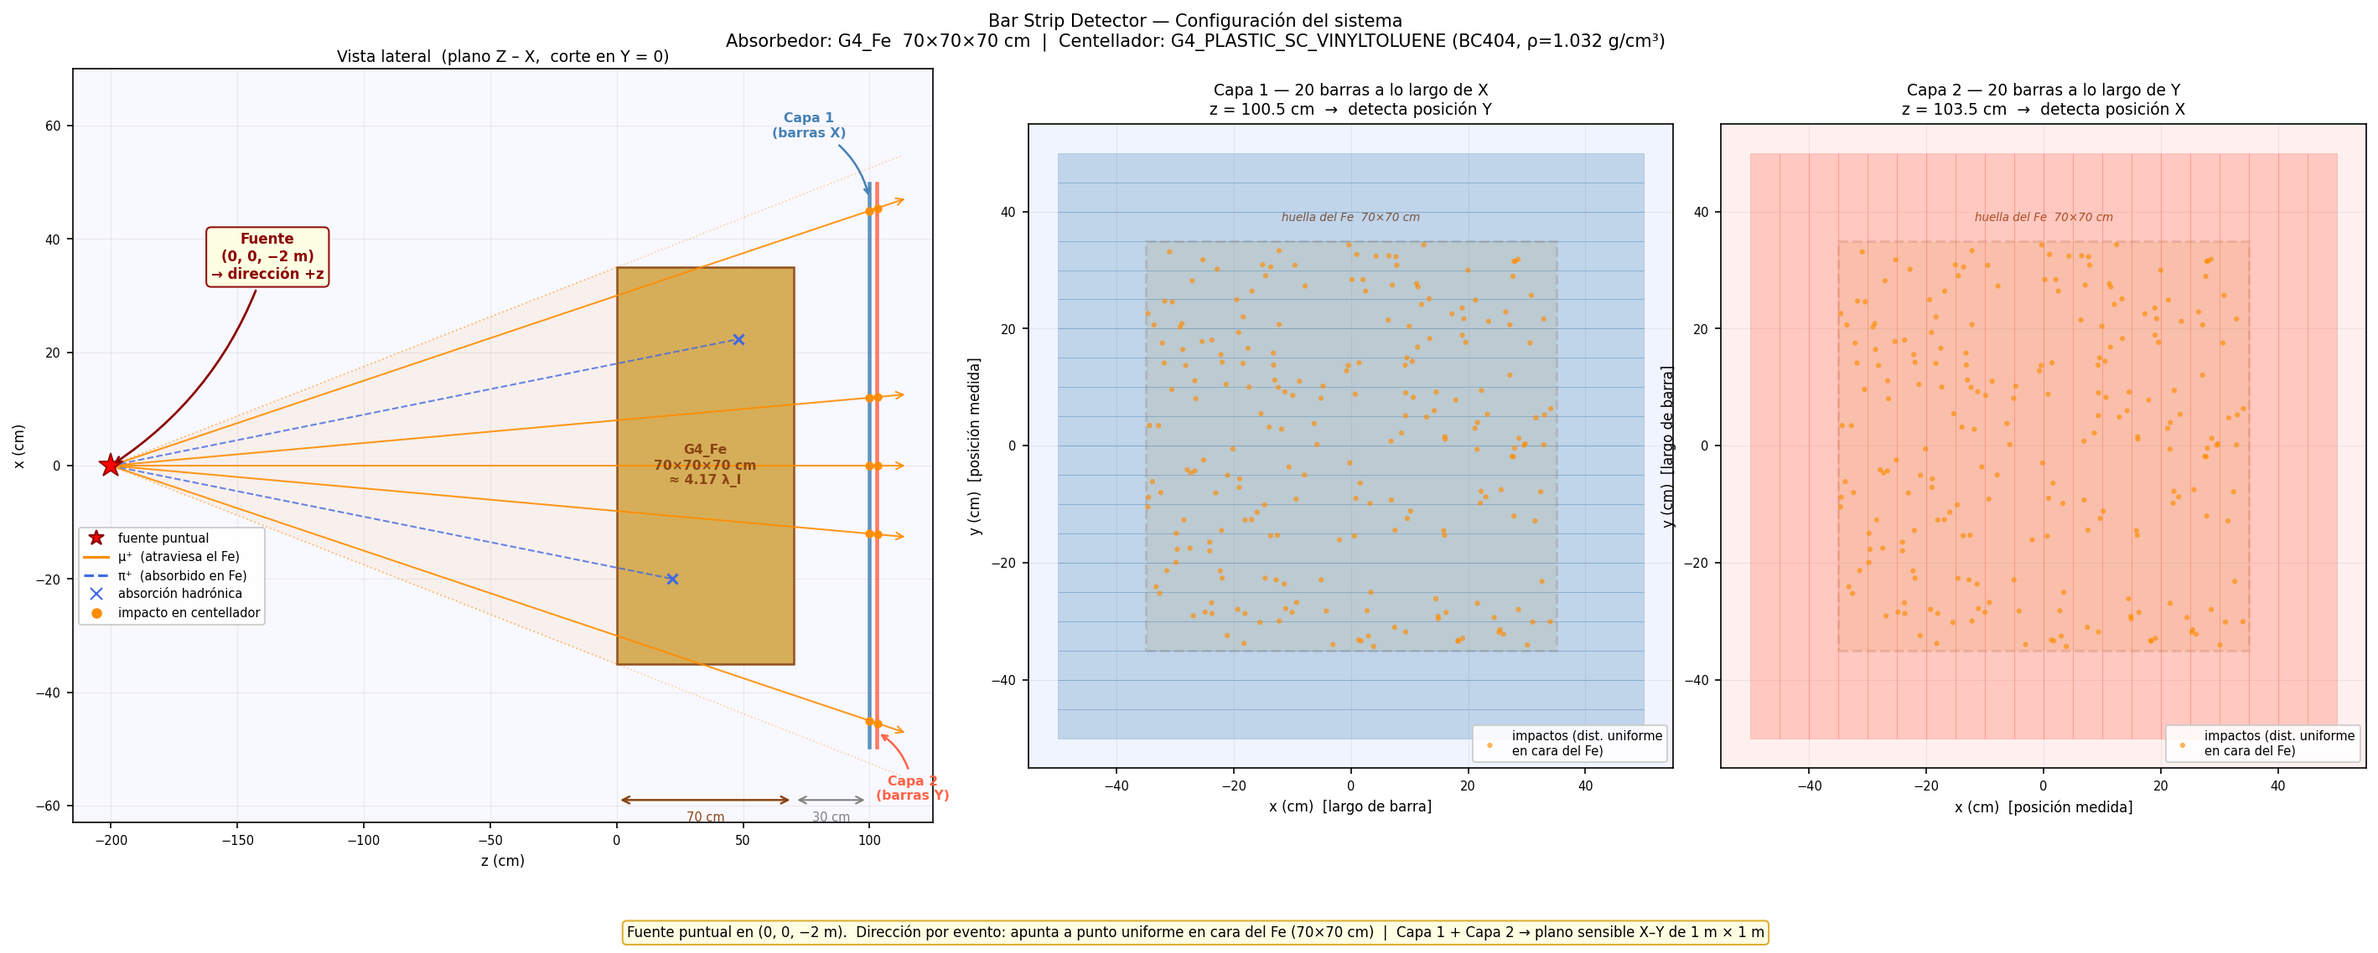
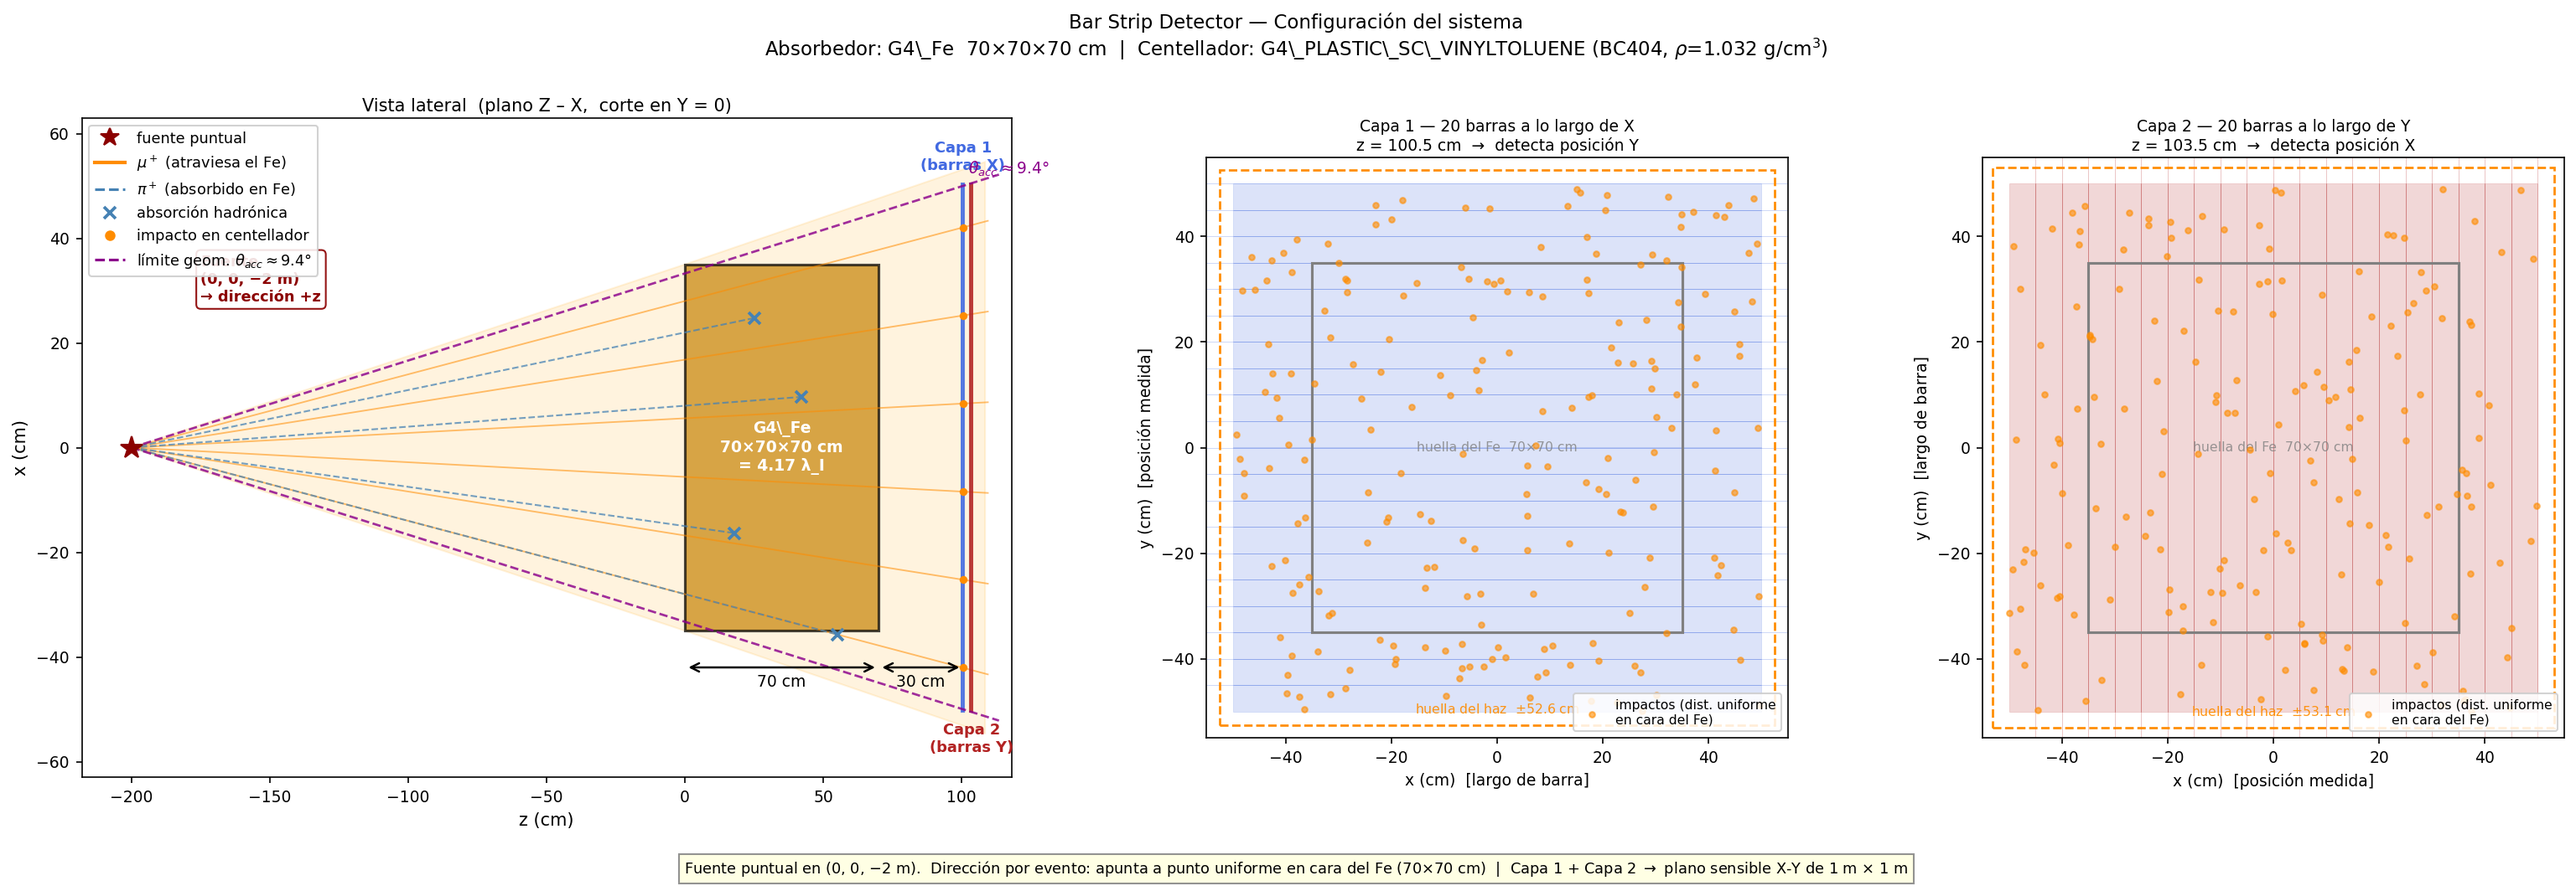
update

diff --git a/Bar Strip Detector/plot_bethe_bloch.py b/Bar Strip Detector/plot_bethe_bloch.py
@@ -393,6 +393,246 @@ def plot_landau(mu, pi, out_dir):
 
 
 # ============================================================================
+# PLOT 4b: Configuración del detector (diagrama esquemático)
+# ============================================================================
+def plot_detector_layout(out_dir, seed=42):
+    """
+    Three-panel schematic of the Bar Strip Detector.
+    Left : ZX side view — cone from source, Fe absorber, scintillator layers.
+    Centre: Capa 1 (20 bars along X, measuring Y).
+    Right : Capa 2 (20 bars along Y, measuring X).
+
+    Added elements:
+    - Dashed acceptance-limit lines (θ_acc ≈ 9.4°) in the side view.
+    - Projected beam footprint rectangle (±52.6 cm) in the layer panels.
+    """
+    from matplotlib.patches import Rectangle
+    from matplotlib.lines import Line2D
+
+    rng = np.random.default_rng(seed)
+
+    # ── Geometry (cm) ────────────────────────────────────────────────────────
+    z_src        = -200.0   # source z
+    z_fe0        =    0.0   # Fe front face
+    z_fe1        =   70.0   # Fe back face
+    x_fe         =   35.0   # Fe half-width
+    z_L1         =  100.5   # Capa 1 centre
+    z_L2         =  103.5   # Capa 2 centre
+    x_bar        =   50.0   # scintillator bar array half-coverage (±50 cm)
+    x_bar_c      =   47.5   # outermost bar centre
+    dist_L1      = z_L1 - z_src           # 300.5 cm
+    dist_L2      = z_L2 - z_src           # 303.5 cm
+    footprint_L1 = round(x_fe * dist_L1 / (-z_src), 1)  # 52.6 cm
+    footprint_L2 = round(x_fe * dist_L2 / (-z_src), 1)  # 53.1 cm
+    tx_acc       = x_bar * (-z_src) / dist_L1             # 33.28 cm
+    theta_acc    = np.degrees(np.arctan(tx_acc / (-z_src)))  # ~9.4°
+
+    # ── Figure layout ────────────────────────────────────────────────────────
+    fig = plt.figure(figsize=(21, 7))
+    fig.suptitle(
+        r"Bar Strip Detector — Configuración del sistema" + "\n"
+        r"Absorbedor: G4\_Fe  70$\times$70$\times$70 cm  |  "
+        r"Centellador: G4\_PLASTIC\_SC\_VINYLTOLUENE (BC404, $\rho$=1.032 g/cm$^3$)",
+        fontsize=11, y=0.99, va="top")
+
+    gs = fig.add_gridspec(1, 3, width_ratios=[3.2, 2, 2],
+                          wspace=0.28, left=0.04, right=0.98,
+                          top=0.87, bottom=0.12)
+    ax_s = fig.add_subplot(gs[0])
+    ax_1 = fig.add_subplot(gs[1])
+    ax_2 = fig.add_subplot(gs[2])
+
+    # ── Side view (ZX plane) ─────────────────────────────────────────────────
+    ax = ax_s
+    ax.set_title("Vista lateral  (plano Z – X,  corte en Y = 0)", fontsize=10, pad=4)
+    ax.set_xlabel("z (cm)", fontsize=10)
+    ax.set_ylabel("x (cm)", fontsize=10)
+
+    # Orange filled cone (full Fe beam cone)
+    x_at_L1 = x_fe * dist_L1 / (-z_src)
+    ax.fill(
+        [z_src, z_fe0, z_L1 + 8, z_L1 + 8, z_fe0, z_src],
+        [0,      x_fe,  x_at_L1 + 2, -(x_at_L1 + 2), -x_fe, 0],
+        color="orange", alpha=0.13, zorder=0)
+
+    # Fe block
+    ax.add_patch(Rectangle((z_fe0, -x_fe), z_fe1 - z_fe0, 2 * x_fe,
+                            facecolor="#C8860A", edgecolor="black",
+                            lw=1.5, alpha=0.72, zorder=1))
+    ax.text((z_fe0 + z_fe1) / 2, 0,
+            r"G4\_Fe" + "\n70×70×70 cm\n= 4.17 λ_I",
+            ha="center", va="center", fontsize=9,
+            fontweight="bold", color="white", zorder=2)
+
+    # Capa 1 (blue vertical bar)
+    ax.add_patch(Rectangle((z_L1 - 0.5, -(x_bar_c + 3)), 1.0, 2 * (x_bar_c + 3),
+                            facecolor="royalblue", edgecolor="royalblue",
+                            alpha=0.80, zorder=2))
+    ax.text(z_L1, x_bar_c + 5,
+            "Capa 1\n(barras X)", ha="center", va="bottom",
+            fontsize=8.5, color="royalblue", fontweight="bold")
+
+    # Capa 2 (red vertical bar)
+    ax.add_patch(Rectangle((z_L2 - 0.5, -(x_bar_c + 3)), 1.0, 2 * (x_bar_c + 3),
+                            facecolor="firebrick", edgecolor="firebrick",
+                            alpha=0.80, zorder=2))
+    ax.text(z_L2, -(x_bar_c + 5),
+            "Capa 2\n(barras Y)", ha="center", va="top",
+            fontsize=8.5, color="firebrick", fontweight="bold")
+
+    # Muon tracks (orange solid)
+    for tx in np.linspace(-28, 28, 6):
+        x_end = tx * (z_L2 + 6 - z_src) / (-z_src)
+        ax.plot([z_src, z_L2 + 6], [0, x_end],
+                color="darkorange", lw=0.9, alpha=0.55, zorder=1)
+        x_hit = tx * dist_L1 / (-z_src)
+        if abs(x_hit) < x_bar:
+            ax.plot([z_L1], [x_hit], "o", color="darkorange", ms=3.5, zorder=3)
+
+    # Pion tracks (blue dashed, absorbed)
+    for tx, z_stop in [(-15, 18), (8, 42), (22, 25), (-28, 55)]:
+        x_stop = tx * (z_stop - z_src) / (-z_src)
+        ax.plot([z_src, z_stop], [0, x_stop],
+                color="steelblue", lw=1.0, ls="--", alpha=0.75, zorder=1)
+        ax.plot([z_stop], [x_stop], "x",
+                color="steelblue", ms=7, mew=1.8, zorder=3)
+
+    # Acceptance limit lines (dashed purple) — NEW
+    z_ext    = z_L2 + 10
+    x_ext    = x_bar * (z_ext - z_src) / dist_L1
+    ax.plot([z_src, z_ext], [0,  x_ext], color="#8B008B",
+            ls="--", lw=1.3, alpha=0.82, zorder=2)
+    ax.plot([z_src, z_ext], [0, -x_ext], color="#8B008B",
+            ls="--", lw=1.3, alpha=0.82, zorder=2)
+    ax.annotate(rf"$\theta_{{acc}}\approx{theta_acc:.1f}°$",
+                xy=(z_L1 + 2, x_bar + 1.5),
+                fontsize=9, color="#8B008B", va="bottom", ha="left")
+
+    # Source star
+    ax.plot([z_src], [0], "*", color="darkred", ms=13, zorder=5)
+    ax.annotate("Fuente\n(0, 0, −2 m)\n→ dirección +z",
+                xy=(z_src, 0), xytext=(z_src + 25, 28),
+                fontsize=8.5, fontweight="bold", color="darkred", zorder=5,
+                bbox=dict(boxstyle="round,pad=0.3", facecolor="white",
+                          edgecolor="darkred", alpha=0.92))
+
+    # Dimension arrows
+    y_arr = -x_fe - 7
+    ax.annotate("", xy=(z_fe1, y_arr), xytext=(z_fe0, y_arr),
+                arrowprops=dict(arrowstyle="<->", color="black", lw=1.2))
+    ax.text((z_fe0 + z_fe1) / 2, y_arr - 1.2,
+            "70 cm", ha="center", va="top", fontsize=9)
+    ax.annotate("", xy=(z_L1, y_arr), xytext=(z_fe1, y_arr),
+                arrowprops=dict(arrowstyle="<->", color="black", lw=1.2))
+    ax.text((z_fe1 + z_L1) / 2, y_arr - 1.2,
+            "30 cm", ha="center", va="top", fontsize=9)
+
+    legend_elems = [
+        Line2D([0], [0], marker="*", color="darkred",    linestyle="None", ms=11,
+               label="fuente puntual"),
+        Line2D([0], [0], color="darkorange",             lw=2,
+               label=r"$\mu^+$ (atraviesa el Fe)"),
+        Line2D([0], [0], color="steelblue",              lw=1.5, ls="--",
+               label=r"$\pi^+$ (absorbido en Fe)"),
+        Line2D([0], [0], marker="x", color="steelblue", linestyle="None",
+               ms=7, mew=1.8, label="absorción hadrónica"),
+        Line2D([0], [0], marker="o", color="darkorange", linestyle="None",
+               ms=5, label="impacto en centellador"),
+        Line2D([0], [0], color="#8B008B",                lw=1.5, ls="--",
+               label=rf"límite geom. $\theta_{{acc}}\approx{theta_acc:.1f}°$"),
+    ]
+    ax.legend(handles=legend_elems, fontsize=8.5, loc="upper left", framealpha=0.88)
+    ax.set_xlim(-218, 118)
+    ax.set_ylim(-63, 63)
+    ax.tick_params(labelsize=9)
+
+    # ── Layer panel helper ────────────────────────────────────────────────────
+    def _layer_panel(ax, horizontal_bars, title, xlabel, ylabel,
+                     color, footprint, x_hits, y_hits):
+        ax.set_title(title, fontsize=9, pad=4)
+        ax.set_xlabel(xlabel, fontsize=9)
+        ax.set_ylabel(ylabel, fontsize=9)
+
+        bar_c = np.linspace(-47.5, 47.5, 20)
+        if horizontal_bars:
+            for xc in bar_c:
+                ax.add_patch(Rectangle((xc - 2.5, -50), 5, 100,
+                                       facecolor=color, edgecolor=color,
+                                       alpha=0.18, lw=0.4, zorder=0))
+                ax.axvline(xc + 2.5, color=color, lw=0.3, alpha=0.4)
+        else:
+            for yc in bar_c:
+                ax.add_patch(Rectangle((-50, yc - 2.5), 100, 5,
+                                       facecolor=color, edgecolor=color,
+                                       alpha=0.18, lw=0.4, zorder=0))
+                ax.axhline(yc + 2.5, color=color, lw=0.3, alpha=0.4)
+
+        # Fe face footprint (70×70 cm = ±35 cm, direct projection)
+        ax.add_patch(Rectangle((-35, -35), 70, 70,
+                               facecolor="none", edgecolor="gray",
+                               lw=1.5, ls="-", zorder=2))
+        ax.text(0, 0, "huella del Fe  70×70 cm",
+                ha="center", va="center", fontsize=7.5, color="gray",
+                alpha=0.80, zorder=2)
+
+        # Projected beam footprint (±footprint cm) — NEW
+        ax.add_patch(Rectangle((-footprint, -footprint),
+                               2 * footprint, 2 * footprint,
+                               facecolor="none", edgecolor="darkorange",
+                               lw=1.3, ls="--", zorder=3))
+        ax.text(0, -footprint + 1.8,
+                rf"huella del haz  $\pm${footprint:.1f} cm",
+                ha="center", va="bottom", fontsize=7.5,
+                color="darkorange", alpha=0.92, zorder=3)
+
+        mask = (np.abs(x_hits) < x_bar) & (np.abs(y_hits) < x_bar)
+        ax.scatter(x_hits[mask], y_hits[mask], color="darkorange",
+                   s=10, alpha=0.60, zorder=4,
+                   label="impactos (dist. uniforme\nen cara del Fe)")
+        ax.legend(fontsize=7.5, loc="lower right", framealpha=0.85)
+        ax.set_xlim(-55, 55)
+        ax.set_ylim(-55, 55)
+        ax.set_aspect("equal")
+        ax.tick_params(labelsize=9)
+
+    # ── Capa 1 ────────────────────────────────────────────────────────────────
+    n_dots = 220
+    tx1 = rng.uniform(-x_fe, x_fe, n_dots)
+    ty1 = rng.uniform(-x_fe, x_fe, n_dots)
+    x1  = tx1 * dist_L1 / (-z_src)
+    y1  = ty1 * dist_L1 / (-z_src)
+    _layer_panel(ax_1, horizontal_bars=False,
+                 title="Capa 1 — 20 barras a lo largo de X\n"
+                       r"z = 100.5 cm  →  detecta posición Y",
+                 xlabel="x (cm)  [largo de barra]",
+                 ylabel="y (cm)  [posición medida]",
+                 color="royalblue", footprint=footprint_L1,
+                 x_hits=x1, y_hits=y1)
+
+    # ── Capa 2 ────────────────────────────────────────────────────────────────
+    tx2 = rng.uniform(-x_fe, x_fe, n_dots)
+    ty2 = rng.uniform(-x_fe, x_fe, n_dots)
+    x2  = tx2 * dist_L2 / (-z_src)
+    y2  = ty2 * dist_L2 / (-z_src)
+    _layer_panel(ax_2, horizontal_bars=True,
+                 title="Capa 2 — 20 barras a lo largo de Y\n"
+                       r"z = 103.5 cm  →  detecta posición X",
+                 xlabel="x (cm)  [posición medida]",
+                 ylabel="y (cm)  [largo de barra]",
+                 color="firebrick", footprint=footprint_L2,
+                 x_hits=x2, y_hits=y2)
+
+    # Bottom annotation
+    fig.text(0.5, 0.005,
+             r"Fuente puntual en (0, 0, $-$2 m).  Dirección por evento: apunta a punto uniforme "
+             r"en cara del Fe (70×70 cm)  |  Capa 1 + Capa 2 $\rightarrow$ plano sensible X-Y de 1 m × 1 m",
+             ha="center", va="bottom", fontsize=8.5,
+             bbox=dict(facecolor="lightyellow", edgecolor="gray", alpha=0.85, pad=3))
+
+    _save(fig, out_dir, "detector_layout.png")
+
+
+# ============================================================================
 # PLOT 5: Overlay μ⁺ vs π⁺ — mediana dE/dx vs βγ
 # ============================================================================
 def plot_overlay(mu, pi, out_dir):
@@ -739,6 +979,25 @@ def plot_efficiency_vs_angle(glob_pattern: str, out_dir: str, n_events_per_run: 
     ax.set_xlim(0.0, theta_max + 0.3)
     ax.set_ylim(-0.05, 1.10)
     ax.axhline(0.5, color="gray", ls=":", lw=1, alpha=0.5)
+
+    # Regime boundary lines
+    theta_lateral = np.degrees(np.arctan(35.0 / 270.0))     # ≈7.4°: back-face → lateral-face Fe exit
+    theta_geom    = np.degrees(np.arctan(50.0 * 200.0 / (300.5 * 200.0)))  # ≈9.4°: geometric acceptance cutoff
+    # simpler: theta_geom = arctan(tx_acc / 200) where tx_acc = 50*200/300.5
+    tx_acc_cm     = 50.0 * 200.0 / 300.5
+    theta_geom    = np.degrees(np.arctan(tx_acc_cm / 200.0))
+
+    ax.axvline(theta_lateral, color="goldenrod",  ls=":", lw=1.8, alpha=0.90, zorder=1)
+    ax.axvline(theta_geom,    color="#8B008B",     ls=":", lw=1.8, alpha=0.90, zorder=1)
+    ax.text(theta_lateral + 0.15, 1.04,
+            f"cara lateral\n({theta_lateral:.1f}°)",
+            fontsize=7.5, color="goldenrod", va="top", ha="left",
+            transform=ax.get_xaxis_transform())
+    ax.text(theta_geom + 0.15, 1.04,
+            f"límite geom.\n({theta_geom:.1f}°)",
+            fontsize=7.5, color="#8B008B", va="top", ha="left",
+            transform=ax.get_xaxis_transform())
+
     ax.legend(fontsize=11, framealpha=0.85)
     ax.text(0.03, 0.06,
             r"$\theta$ reconstruido de posiciones de barras" + "\n"
@@ -770,6 +1029,7 @@ def main(mu_path, pi_path, mixed_path, out_dir):
     plot_dedx_vs_beta(mu, pi, out_dir)
     plot_dedx_vs_p(mu, pi, out_dir)
     plot_landau(mu, pi, out_dir)
+    plot_detector_layout(out_dir)
     plot_overlay(mu, pi, out_dir)
     plot_pid_combined(mu, pi, out_dir)
     plot_layer_hits(mu, pi, out_dir)

diff --git a/Bar Strip Detector/README.md b/Bar Strip Detector/README.md
@@ -155,7 +155,7 @@ Los 80 archivos ROOT se guardan en `Classifier/data/mixed/output_run0.root` … 
 
 ![Detector layout](img/detector_layout.png)
 
-El diagrama muestra la geometría completa: fuente puntual en z = −2 m, cono de partículas hacia la cara del Fe (70×70 cm), absorbedor, gap de 30 cm y las dos capas de centellador.
+El diagrama muestra la geometría completa: fuente puntual en z = −2 m, cono de partículas hacia la cara del Fe (70×70 cm), absorbedor, gap de 30 cm y las dos capas de centellador. Las líneas moradas discontinuas en la vista lateral delimitan el ángulo de aceptancia geométrica (θ_acc ≈ 9.4°): partículas por encima de ese ángulo llegan más allá de las barras (±50 cm) y no se detectan. En los paneles de cada capa, el rectángulo naranja discontinuo muestra la huella proyectada del haz (±52.6 cm), que supera ligeramente la cobertura del array de barras (±50 cm).
 
 ---
 
@@ -229,11 +229,16 @@ Número de hits en Capa 1 vs Capa 2 para cada especie. Los μ⁺ muestran ~2% de
 
 ![Eficiencia vs ángulo](img/efficiency_vs_angle.png)
 
-ε en función del ángulo del cono θ (ángulo entre la dirección inicial del disparo y el eje z). θ se reconstruye de las posiciones de las barras: la Capa 1 da t_y y la Capa 2 da t_x, proyectando de vuelta hacia la cara del Fe. El ángulo máximo del cono es arctan(35√2 cm / 200 cm) ≈ 13.9°.
+ε en función del ángulo del cono θ, reconstruido de las posiciones centrales de las barras tocadas. El paso de barra de 5 cm limita la resolución angular a ~0.7° por coordenada; de ahí que el plot muestre ~14 puntos discretos y no una curva. Ángulo máximo del cono: arctan(35√2 cm / 200 cm) ≈ 13.9°.
 
-**μ⁺:** ε se mantiene aproximadamente constante para θ < 10°. A ángulos grandes la eficiencia cae porque las partículas recorren más hierro (70/cosθ cm) y porque las más oblicuas pueden salirse de la cobertura geométrica de 1 m × 1 m del centellador.
+El camino dentro del cubo de Fe (70×70×70 cm) depende de por qué cara salga la partícula:
 
-**π⁺:** comportamiento similar pero con escala ~10%. La absorción hadrónica domina en todo el rango angular.
+- θ < 7.4°: sale por la cara trasera, recorre 70/cosθ cm — apenas más que en incidencia normal.
+- 7.4° < θ < 9.4°: sale por una cara lateral. El camino cae rápido: solo ~34 cm a θ ≈ 8.5°. Más oblicua no es más hierro.
+- θ > 9.4°: la partícula llega a |x| o |y| > 50 cm, fuera del alcance de las barras. La eficiencia se va a cero por aceptancia geométrica, no por blindaje adicional.
+
+μ⁺: ε plana hasta ~9°, luego corte abrupto donde acaba la cobertura del centellador.
+π⁺: el mismo corte geométrico a ~9°; el nivel base del ~10% lo pone la absorción hadrónica, sin dependencia angular.
 
 ---
 
@@ -431,7 +436,7 @@ The 80 ROOT files are written to `Classifier/data/mixed/output_run0.root` … `o
 
 ![Detector layout](img/detector_layout.png)
 
-The diagram shows the full geometry: point source at z = −2 m, cone toward the Fe face (70×70 cm), absorber, 30 cm gap, and the two scintillator layers.
+The diagram shows the full geometry: point source at z = −2 m, cone toward the Fe face (70×70 cm), absorber, 30 cm gap, and the two scintillator layers. The purple dashed lines in the side view mark the geometric acceptance limit (θ_acc ≈ 9.4°): particles above that angle arrive beyond the bar array (±50 cm) and are not detected. In each layer panel, the orange dashed rectangle shows the projected beam footprint (±52.6 cm), which slightly overflows the bar coverage (±50 cm).
 
 ---
 
@@ -505,11 +510,16 @@ Hit count in Layer 1 vs Layer 2 for each species. μ⁺ show ~2% asymmetry betwe
 
 ![Efficiency vs angle](img/efficiency_vs_angle.png)
 
-ε as a function of cone angle θ (angle between the initial particle direction and the beam axis z). θ is reconstructed from bar positions: Layer 1 gives t_y and Layer 2 gives t_x, back-projected to the Fe face. Maximum cone angle: arctan(35√2 cm / 200 cm) ≈ 13.9°.
+ε as a function of cone angle θ, reconstructed from hit bar center positions. The 5 cm bar pitch gives ~0.7° angular resolution per coordinate, which is why the plot shows ~14 discrete points rather than a continuous curve. Maximum cone angle: arctan(35√2 cm / 200 cm) ≈ 13.9°.
 
-**μ⁺:** ε is approximately constant for θ < 10°. At larger angles it falls because particles traverse more iron (70/cosθ cm) and the most oblique ones can miss the 1 m × 1 m geometric acceptance of the scintillator.
+The path through the Fe cube (70×70×70 cm) depends on which face the particle exits from:
 
-**π⁺:** similar shape but at the ~10% level. Hadronic absorption dominates across the full angular range.
+- θ < 7.4°: back face exit, path = 70/cosθ cm — barely longer than straight through.
+- 7.4° < θ < 9.4°: lateral face exit, path drops fast — only ~34 cm at θ ≈ 8.5°. More oblique is not more iron.
+- θ > 9.4°: particle arrives at |x| or |y| > 50 cm, past the bar coverage. Efficiency collapses from geometric acceptance loss, not extra shielding.
+
+μ⁺: ε flat up to ~9°, then a sharp cutoff where the scintillator coverage ends.
+π⁺: same geometric cutoff at ~9°; the ~10% floor is set by hadronic absorption, which has no angular dependence.
 
 ---
 
